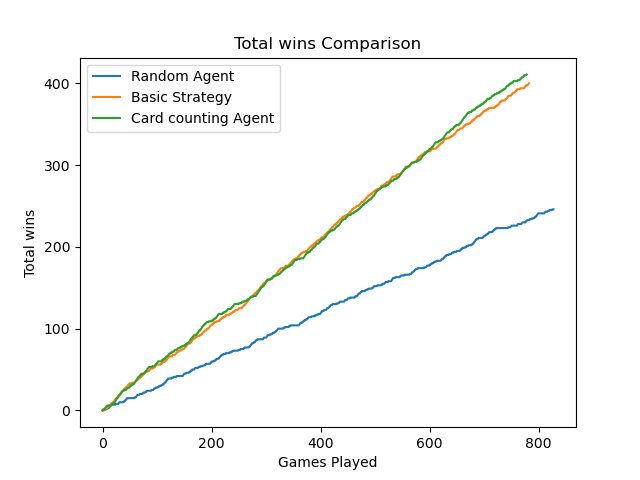
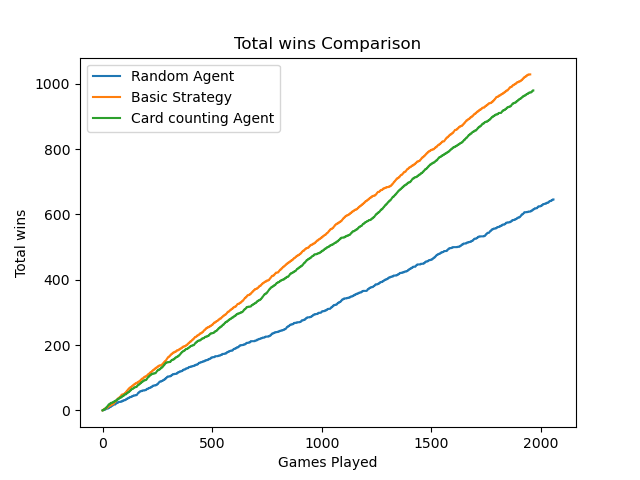
Pushing QLearning

diff --git a/agent.py b/agent.py
@@ -87,3 +87,63 @@ class BasicStrategyAgent(Agent):
             return problem.Action.HIT
         else:
             return problem.Action.STAND
+
+class QLearningAgent(Agent):
+    def __init__(self, epsilon: float, alpha: float, gamma: float):
+        super().__init__()
+        self._table = {}
+        self._actions_per_state = 2
+        self._epsilon = epsilon
+        self._alpha = alpha
+        self._gamma = gamma
+
+    def table(self):
+        return self._table
+
+    def get_action(self, curr_state, problem: Blackjack):
+        player_cards = tuple(curr_state[1])
+        dealer_cards = tuple(curr_state[2])
+        state_tuple = (player_cards, dealer_cards)
+        if state_tuple not in self._table:
+            self._table[state_tuple] = [0 for _ in range(2)]
+        action = self._table[state_tuple].index(max(self._table[state_tuple]))
+
+        if action == 0:
+            return problem.Action.HIT
+        else:
+            return problem.Action.STAND
+
+    def train(self, initial_state, problem: Blackjack, num_epochs: int = 100, num_iterations: int = 1000):
+        player_cards = tuple(initial_state[1])
+        dealer_cards = tuple(initial_state[2])
+        state_tuple = (player_cards, dealer_cards)
+        for i in range(num_epochs):
+            current = state_tuple
+            for j in range(num_iterations):
+                value = random.random()
+                action = None
+                if value < self._epsilon:
+                    action = random.choice(problem.actions)
+                else:
+                    action = self.get_action(current, problem)
+                goal_state = None
+                new_state = None
+                if action == problem.Action.HIT:
+                    new_state = problem.hit()
+                    goal_state = problem.get_state()
+                else:
+                    new_state = problem.stand()
+                    goal_state = problem.get_state()
+                reward = None
+                if new_state is problem.GameState.WIN:
+                    reward = 10
+                else:
+                    reward = -1
+                current_q = self._table[state_tuple][problem.actions.index(action)]
+                max_action = self.get_action(new_state, problem)
+                max_possible_q = self._table[(new_state[1], new_state[2])][problem.actions.index(action)]
+                new_q = ((1 - self._alpha) * current_q) + self._alpha * (reward + (self._gamma * max_possible_q))
+                self._table[state_tuple][problem.actions.index(action)] = new_q
+                current = new_state
+                if problem.GameState.WIN:
+                    break

diff --git a/main.py b/main.py
@@ -66,5 +66,5 @@ def play_multiple_rounds(n, agent):
 
 #states, actions, _, results = play_round(bj, CardCountingAgent())
 #round_compare_visualization(bj, states, actions, RandomAgent())
-plot_wins(("Random Agent", "Basic Strategy", "Card counting Agent"), (play_multiple_rounds(20, RandomAgent()), play_multiple_rounds(20, BasicStrategyAgent()),play_multiple_rounds(20, CardCountingAgent())))
+plot_wins(("Random Agent", "Basic Strategy", "Card counting Agent"), (play_multiple_rounds(50, RandomAgent()), play_multiple_rounds(50, BasicStrategyAgent()),play_multiple_rounds(50, CardCountingAgent())))
 #round_compare_visualization(bj, states, actions, RandomAgent(), "Card Counting Agent", "Random Agent")

diff --git a/blackjack.py b/blackjack.py
@@ -44,7 +44,7 @@ class Blackjack:
     def val(self, deck):
         deck_val = sum(deck)
         if 1 in deck:
-            if deck_val + 10 <= 21:
+            if deck_val + 10    <= 21:
                 deck_val += 10
         return deck_val
 
@@ -91,5 +91,6 @@ class Blackjack:
             return self.GameState.LOSS
         else:
             return self.GameState.WIN
+
 
     
